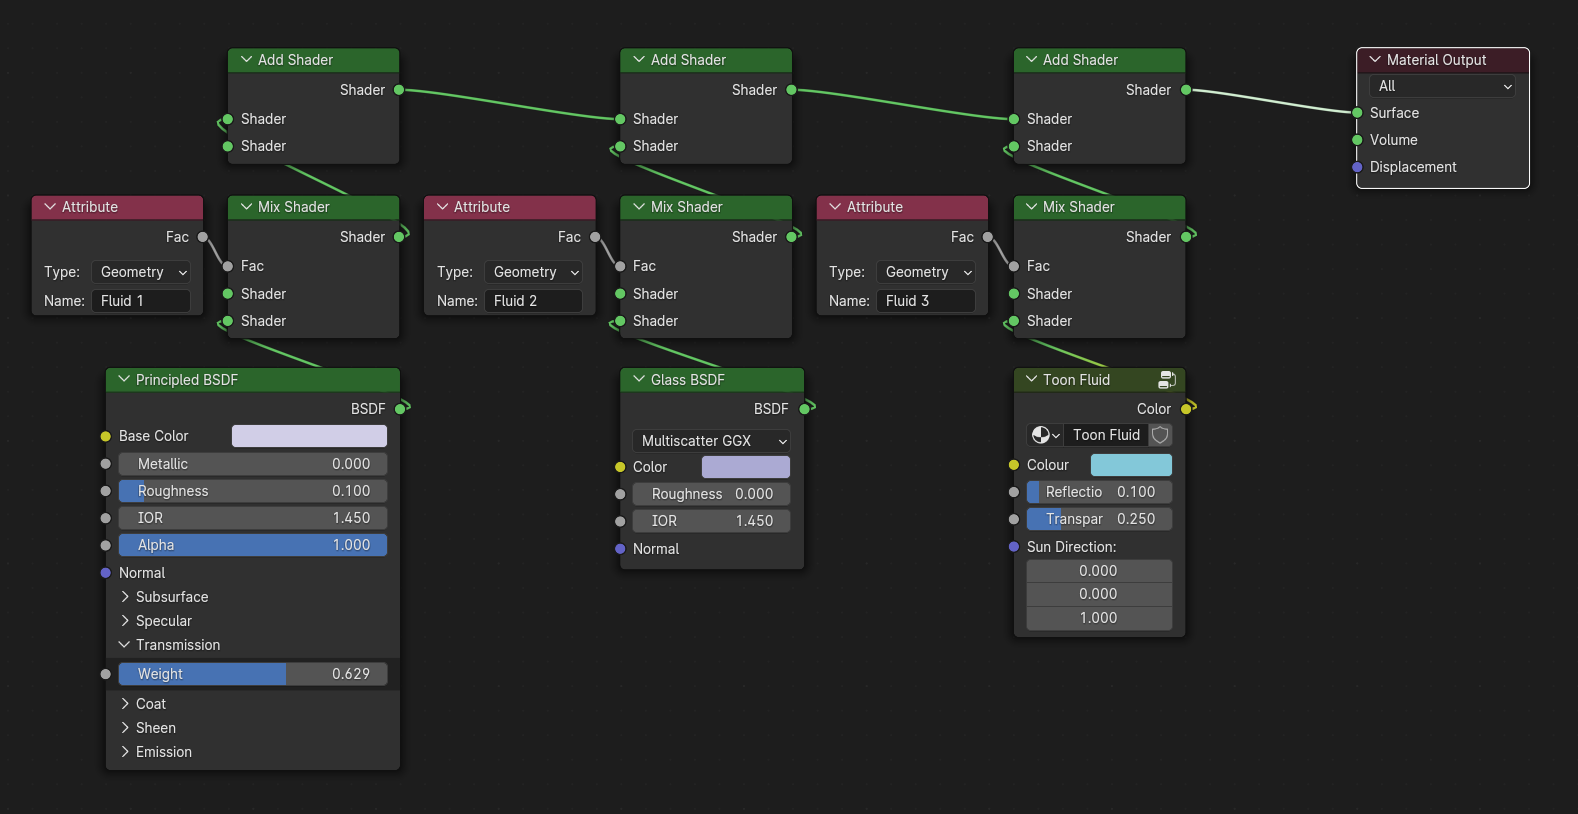
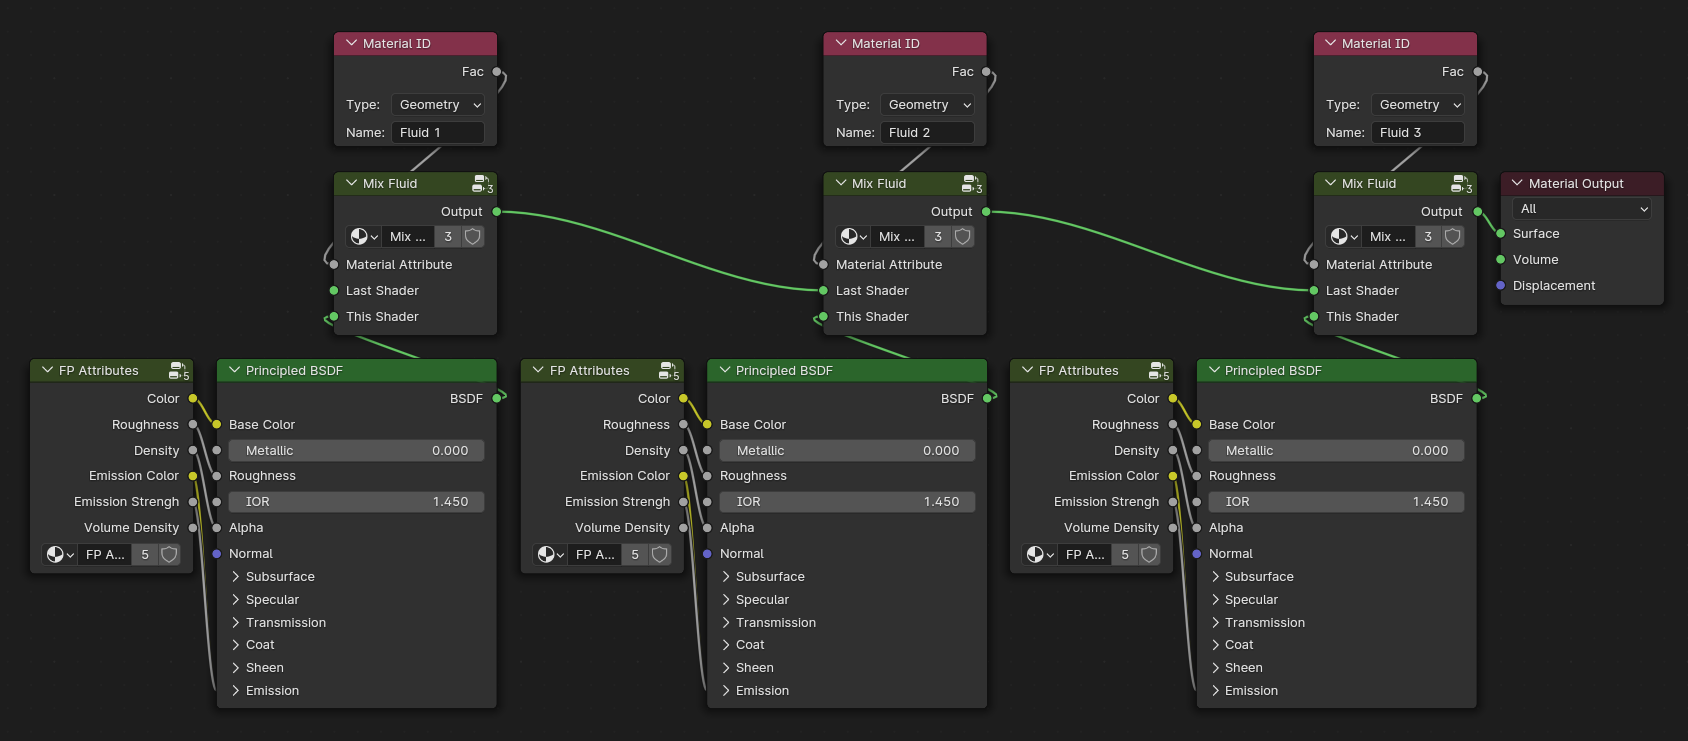
Updated ReadMe for V2.1

Changed region(s): [[0.0, 0.031, 0.9937, 0.9622], [0.3726, 0.031, 0.6831, 0.1862], [0.3105, 0.1242, 0.4347, 0.1862]]

diff --git a/README.md b/README.md
@@ -1,21 +1,21 @@
 Fluid-Particles
 ===
-A simple tool to create small quick fluid sims in blender. 
+A simple tool to create quick fluid sims in blender. 
 ---
 
 Creating detailed fluid simulations is well known to be a long and arduous process, and even more so in blender, but will give you beautiful results when working on larger scales with lots of fluid. But what if you don't need all that? What if you just need a quick small scale fluid sim? Thankfully, that's what this addon is intended for.
 
-This addon utilizes Blender's particle system's Fluid physics type and is simply designed to be a quick and easy to setup, adjust, and control multiple sims at once in, what would otherwise be, a confusing and convoluted method of simulating fluid. Designed primarily to be able to add multiple sims that all interact with each other, and automatically set up a fluid surface mesh to render out the fluid and support blending between multiple fluid types.
+This addon utilizes Blender's particle system's Fluid physics type and is simply designed to be a quick and easy to setup, adjust, and control multiple sims at once in what would otherwise be a confusing and convoluted method of simulating fluid. Designed primarily to be able to add multiple sims that all interact with each other, and automatically set up a fluid surface mesh to render out the fluid and support blending between multiple fluid types.
 
 How To Use
 ===
 The addon is split up into 3 different tabs: Simulation Settings, Animation Settings, and Render Settings.
-(Simply listed as "Simulate", "Animate", and "Render" since space is limited.)
+(Simply listed as "Sim Settings", "Animation", and "Render Settings" since space is limited.)
 ![Fluid Particles Screenshot](FluidParticlesMenues.png)
 
 Simulation Settings
 ---
-All of these sections are pretty self-explanatory, but this tab is where you'll be controlling the simulation parameters, anything and everything that defines how the fluid will react to the world.
+All of these sections are pretty self-explanatory, but this tab is where you'll be controlling the fluid parameters. Everything and anything that defines how the fluid will react to the world, as well as itself, is here.
 
 - Streams: Where you'll add/remove particle systems (or "Streams" as I like to call them) from an emitter, as well as control:
   - Particle count: How many particles this stream will emit. This is probably the biggest downside to this method; you have to define exactly how many particles to use as it won't automatically adjust for you.
@@ -32,26 +32,34 @@ All of these sections are pretty self-explanatory, but this tab is where you'll 
  - Cache to Bake/Unbake Emitter: Will save the playback cache for all streams in each selected emitter or delete all bakes in the selected emitter (if currently selected stream is already baked.)
  - Bake/Unbake All Physics: Will bake all physics of any type in the scene. This includes particle systems, cloth simulations, soft bodies, rigid bodies, etc. (Ideal if you're either only working with fluid sims or want to bake other sim types simultaneously for accurate interactions.)
 
-- Recalculate: Think of this as a panic button, if something goes wrong with the simulation, this'll force all streams on an emitter to reset, clear they're bakes and playback caches, rebuild links to other streams, and set the frame to the start of the simulation.
-- Copy Settings: This'll copy all settings below from the active emitter to other selected emitters, with the exception of:
-
-- Particle Catcher: This'll add an invisible plane that'll kill any particles that collide with it, meant to delete particles that go off screen or form hurting performance as they endlessly falling into oblivion. (Note that it won't delete particles that are below it, only ones that try to pass said height, so particles that spawn below it won't be deleted.)
+- Recalculate: Think of this as a panic button, if something goes wrong with the simulation, this'll force all streams on an emitter to reset, clear they're bakes and/or playback caches, rebuild links to other streams, and set the frame to the start of the simulation.
+- Copy Settings: This'll copy all settings below from the active emitter to other selected emitters.
 
 - Lifetime: How long the particles will live for. Set to your scene's end frame if you never want them to die. Alternatively, you can add some randomness to when they die to help them fizzle out rather than die at an exact time after being spawned (useful for creating looping animations.)
 
-- Size: How big the particles are. This'll also affect how close they can get to collision objects.
+- Particle Radius: How big the particles are. This'll also affect how close they can get to collision objects.
+- Interaction Distance: This defines how close particles must be to interact with eachother, based on their Radius. This does not effect how they react to collision objects.
 
-- SubFrames: How frequently blender should calculate the simulation between each frame. Since fluid sims are much more complicated than normal particle simulations, it's important to give blender some leeway to calculate things. Alternatively, you can tell blender to automatically add subframes where need be by setting a threshold (though it'll usually be a bit slower to simulate than if you just set the subframe count manually).
-
-- Mass: How heavy the particles are. This only affects how different streams interact with each other. i.e., a lighter fluid will displace a heavier fluid.
-- Viscosity: How **thicc** the fluid is. (It has something to do with internal friction, but just think of it as a consistency slider that goes from water to honey).
-- Radius: This defines how many times larger than the size each particle is and, unlike the size parameter, only affects how particles interact with each other and not how they react to collision objects. (If the difference between this and Size is lost on you, then just leave this at 2 and only adjust the size parameter.
 - Stiffness: How incompressible the fluid is.
-- Repulsion: How much particles push away from each other (based on Stiffness).
-- Density: How much particles are allowed to intersect with each other. (Useful when used in tandem with Radius.)
+- Repulsion: How much particles push away from each other. Linked to Stiffness by default, but clicking on the title "Stiffness (Factored Repulsion)" will unlink them or vice versa.
+
+- Viscosity: How **thicc** the fluid is during either compression or expansion. By default both are controlled together, but clicking on the title "Viscosity (Linked)" will unlink them or vice versa.
+  - Compression: How much the fluid resist shearing.
+  - Expansion: How much the fluid resist being pulled appart.
+
+- Rest Density: How much particles are allowed to intersect with each other. (Useful when used in tandem with Radius.)
+
+- Mass: How heavy the particles are. Primairly useful when you have 2 different fluids of different masses. i.e., a heavier fluid will displace a lighter fluid.
+
+- Stickyness: How much the particles stick together/attract eachother after previously colliding.
+
+- Particle Catcher: This'll add an invisible plane that'll kill any particles that collide with it, meant to delete particles that go off screen from hurting performance as they endlessly fall into oblivion. (Note that it won't delete particles that are below it, only ones that try to pass said height, so particles that spawn below it won't be deleted. This also won't be copied over to other emitters since it's secretly a global scene setting.)
 
 - Gravity: How much particles are affected by gravity.
 - Force Fields: How much particles are affected by other forces (excluding collision objects).
+
+- Simulation Speed: How fast the particles are. Higher speeds will require more subframes as the particles will move more each frame than at lower speeds.
+- SubFrames: How frequently blender should calculate the simulation between each frame. Since fluid sims are much more complicated than normal particle simulations, it's important to give blender some leeway to calculate things.
 
 Animation Settings
 ---
@@ -64,19 +72,19 @@ If you've noticed that the particles don't emit at a consistent speed, don't wor
 
 Render Settings
 ---
-This tab is where you'll control the fluid surface. Keep in mind that these settings are universal and aren't based on the streams at all, outside of the box of material parameters at the bottom that are unique to each emitter. Because of this, you can access these settings regardless of what object is selected, or even if no object is selected at all.
+This tab is where you'll control the fluid surface as well as material parameters for emitter's fluid. Keep in mind that these settings are universal and aren't based on the streams at all, outside of the box of material parameters at the bottom that are unique to each emitter. Because of this, you can access these settings from any emitter or even the fluid surface itself (as this is the only tab the fluid surface has).
 
-- Fix Surface: Reimport the fluid surface, its default material, and the hidden instance objects that might've gotten broken when deleting an emitter.
+- Fix Surface: Reimport the fluid surface, its default material, the default custom material template, as well as any hidden objects or parameters that might've gotten broken when deleting an emitter.
 
 - Size Multiplier: How many times larger than the particle's radius should they render as. (Useful for offsetting the smoothing effect the fluid surface provides.)
 - Quality: The density of vertices the fluid surface will have (relative to the smallest radius of all emitters).
-- Viewport Display: Defines the quality of the fluid in the viewport (relative to the quality setting above). Setting this to 0 will hide the fluid surface altogether in the viewport and keep from calculating it at all (as it can be quite slow at times), but will continue to show the particles for each fluid as a lightweight visualization. I recommend leaving this off anytime you don't actively need to see the fluid surface itself.
+- Viewport Display (**Does Not Effect The Render!**): Defines the quality of the fluid in the viewport (relative to the quality setting above). Setting this to 0 will hide the fluid surface altogether in the viewport and keep from calculating it at all (as it can be quite slow at times), but will continue to show the particles for each fluid as a lightweight visualization. I recommend leaving this off or at around 0.5 anytime you are adjusting Simulation parameters or working on something else, and around 0.5 anytime you don't actively need to see the fluid surface in great detail.
 
 - Smoothing: How much the surface will be smoothed over, to make it look more fluid like at the cost of minor artifacts when particles are barely touching in weird ways.
 
 - Material Blending: Blends the material parameters for each emitter together wherever the streams interact.
 
-- Custom Material: Where you can create your own material to use instead of the default one, though blender has no way of blending between materials so you can only set one. You can create a compound material that'll manage different materials. More info on how to do that is below. (Note that the active fluid material is also set on each emitter object for ease of access, so feel free to alter it however you like.)
+- Custom Material: Where you can create your own material to use instead of the default one. Since blender has no way of nativly blending between materials, you can only set one. I've included a template material (simply named "FP - Custom Fluid Template") so you can easily create a compound material that'll manage different materials. More info on how to do that is below. (Note that the active fluid material is also set on each emitter object for ease of access, so feel free to alter it however you like.)
 
 Material Parameters (relative to each emitter):
 - Material ID (Only available with a Custom Material set): This'll let you switch between sections of a compound material. More info below.
@@ -91,45 +99,33 @@ Material Parameters (relative to each emitter):
 
 Collision Objects
 ---
-When you first selected an object to add a stream, you were probably greeted with the option to either set it as Emitter or set it as Collision. That's because navigating down to the physics tab for collision objects felt tedious and disjointed when everything else is in one single panel. Thanks to my laziness, you can also easily control collision objects from within the addon as well.
+This addon utilizes blender's normal collision settings. Enable it as you would enable collision for object you want to collide with things like cloth. (Also, keep in mind that collision objects will also interact with cloth and soft body simulations. Sorry, I wish it didn't but that's out of my hands.)
 
-(Also, node that collision objects will also interact with cloth and soft body simulations. Sorry, I wish it didn't but that's out of my hands.)
+![Collision Menue](CollisionObjectMenue.png)
 
-![Compound Material Example](CollisionObjectMenue.png)
+(The Particle section is the only one that matters here).
 
-- Set as/Disable Collision: This'll tell blender to use this object for collisions rather than as an emitter. If there isn't already a collision modifier, then it'll add a collision modifier to the bottom of your modifier stack, so be sure to move it to the right place if need be (as super high poly collision objects will slow things down significantly for little benefit). Disabling collision will also delete the collision modifier from the object.
-
-- Cage: If your object is fairly high poly and you have a lower poly version you want to use for collisions instead, you can set the low poly version as a collision cage. This'll remove the collision modifier from your main object and add one to the cage instead. (Note that the following settings will be visible on both the original object and the cage object:)
-
+- Permeability: How likely each particle is to pass through the collision object (calculated every frame).
 - Damping: How much the collision object will prevent particles from bouncing off it. (Recommend Value: 0.75)
 - Friction: How much the collision object will prevent particles from sliding across it. (Recommend Value: 0.25)
-- Permeability: How likely each particle is to pass through the collision object (calculated each frame).
-- Stickiness: How much particles will stick to the collision object (i.e. overhangs).
+- Stickiness: How much particles will stick to the collision object (i.e. overhangs. Recommend Value: 0-0.5).
 
 Setting Up a Compound Material
 ===
-As blender doesn't let you directly blend between multiple materials, there isn't a way for me to easily let you assign materials to different emitters. However, I did add attributes to help you create your own Compound Materials (a material with multiple different materials inside of it). It's a bit of a process to set up, but hopefully I can help simplify it a small bit and make it a viable option for people to do. (Do keep in mind that if you only need a single material for all your fluids, then this process isn't at all necessary.)
+As blender doesn't let you directly blend between multiple materials, there isn't a way for me to easily let you assign materials to different emitters. However, I did add attributes to help you create your own Compound Materials (a material with multiple different materials inside of it). The addon comes included with a template material that is automatically loaded in with your fluid surface. (Do keep in mind that if you only need a single material for all your fluids, then this process isn't at all necessary.)
 
-1) Under any emitter or the fluid surface itself, go to the material properties tab and unlink the "Default Fluid Mat" material (the little X icon next to the name) then add a new material in its place. Alternatively, you can duplicate the default material and adjust it to work with this method, though I'll be starting from a blank slate for this.
+1) In the fluid particles panel, under Render Settings, set the Custom Material to the included "FP - Custom Fluid Template" material. We do this early just to make sure that the addon won't set it back to the default material when you adjust anything in the addon.
 
-2) In the fluid particles panel, under Render Settings, set your newly made material as the Custom Material. We do this early just to make sure that the addon won't set it back to the default material when you adjust anything in the addon.
+1.5) Alturnatively, if you want to make your own material from scratch, then under any emitter or the fluid surface itself, go to the material properties tab and unlink the "Default Fluid Mat" material (the little X icon next to the name) then add a new material in its place.
+
+2) With an emitter selected (not the fluid surface), under the addon's render settings tab, a new parameter called "Material ID" should've appeared. You can change that to use whichever material inside your compound material that you want.
 
 3) Now we'll open the shader editor and finally start making the compound material. The setup is fairly straightforward, consisting of 4 main parts:
-  - An Attribute Node: This is what we'll use to define if an emitter will use this material or another. We'll set this to "Fluid 1", where the 1 is for emitters with a Material ID of 1. This'll be connected to the factor of a
-  - Mix Shader Node: This is for limiting our material to only apply to streams set to the right Material ID, which in this case is an ID of "1". The first shader input will be left empty, while the second is where we'll connect our
-  - Fluid Material: This can be whatever you want to use for your fluid, a Principled BSDF shader, a Glass shader, or even just an RGB value. The only things it can't be are volume nodes, as blender doesn't yet allow you to control volumes through geometry nodes assigned attributes (outside of instancer attributes, which the "Fluid #" ones are not). If your material is really big/has a lot of nodes, it might help to put it inside a group to keep things a bit cleaner.
-  - Lastly, an Add Shader Node: This is to let the other materials show on vertices they are assigned to without having to sweep though Material IDs like using a Mix Shader would require. Connect the output of the mix shader node to this, either input is fine (though you can technically skip this node for the first material).
+  - Our Fluid Material: This can be whatever you want to use for your fluid, a Principled BSDF shader, a Glass shader, or even just an RGB value. The only things it can't be are volume nodes, as blender doesn't yet allow you to control volumes through geometry node's assigned attributes (outside of instancer attributes, which the Material ID's are not). If your material is really big/has a lot of nodes, it might help to put it inside a group to keep things a bit cleaner.
+  - The Included "FP Attributes" Node: This is purely optional, but this is how you can use the material attributes assigned in the addon's "Render Settings" tab.
+  - The Included "Mix Fluid" node: This is were we'll connect our material's output (in this case the Principled BSDF's output) into the bottom input labled "This Shader." And most importantly,
+  - An Attribute Node: This is where we'll get the mask for each Material ID, using the attributes "Fluid #" for each material. We'll set the first one to "Fluid 1", where the 1 is for emitters with a Material ID of 1, and the next to "Fluid 2" for a Material ID of 2.
 
-4) Copy this over for as many materials you want to use, changing the Attribute node to the proper material ID each time. At the end if it all, your material should look something like this:   ![Compound Material Example](CompoundMaterialExample.png)
+4) We can add these in series to have as many different fluid materials as we want, connecting our Mix Fluid node's output to the "Last Shader" input of the next Mix Fluid Node. Copy this over for as many materials you want to use, changing the Attribute node to the proper material ID each time. At the end if it all, your material should look something like this:   ![Compound Material Example](CompoundMaterialExample.png)
 
-5) In you emitters, under the render settings tab, a new parameter called "Material ID" should've appeared. You can change that to use whichever material inside your compound material that you want. And with that, you're all set. Blender will now automatically blend between these materials when streams collide.
-
-Though if you still want to use the provided material parameters in the addon, then you simply need to add the corresponding attribute for them:
-Attribute | Type
---- | ---
-Colour | Color value
-Roughness | Float value
-Density | Float value
-Emission Colour | Color value
-Emission Strength | Float value
-Volume Density | (Instancer) Float value
+And with that, you're all set. Blender will now automatically blend between these materials when streams collide.
